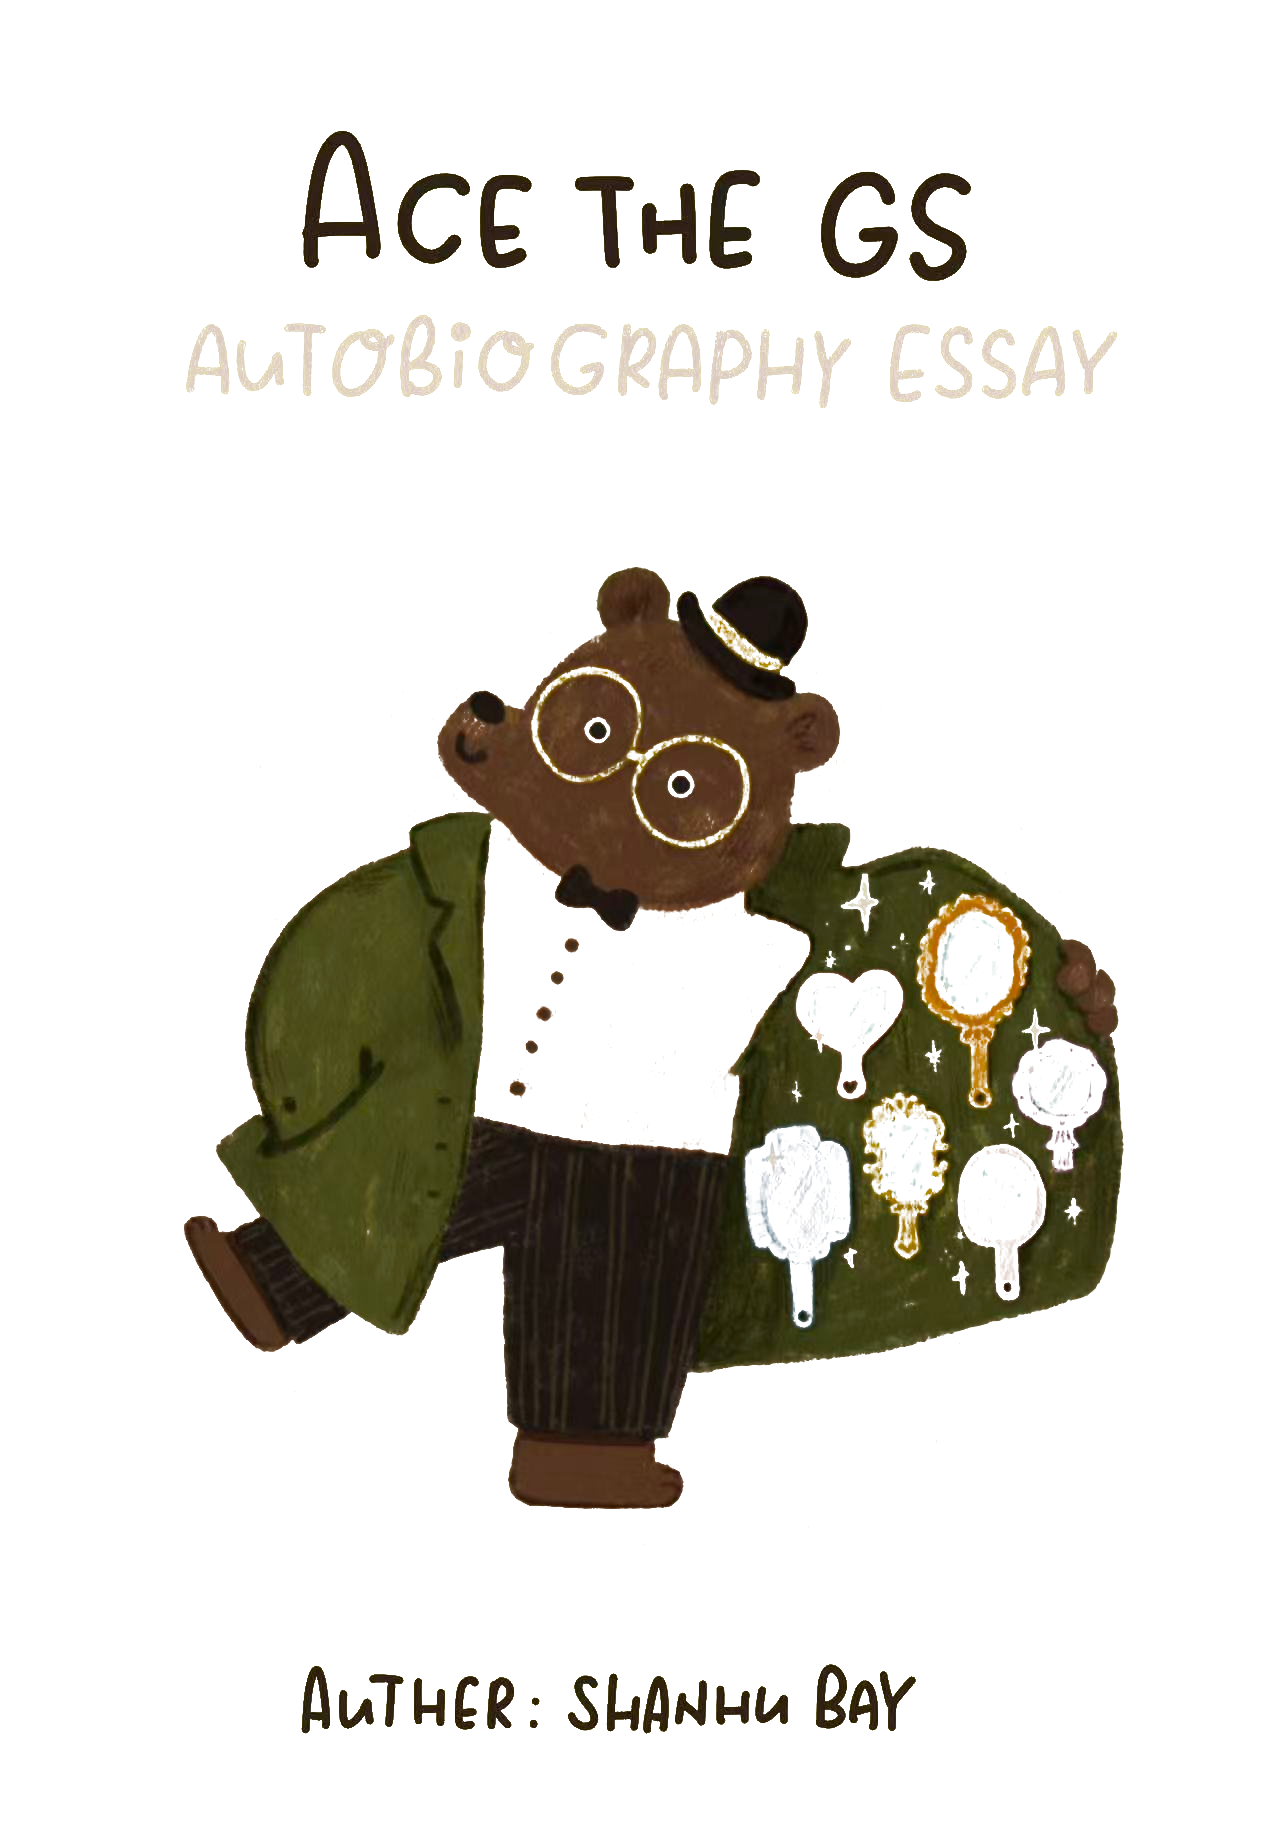
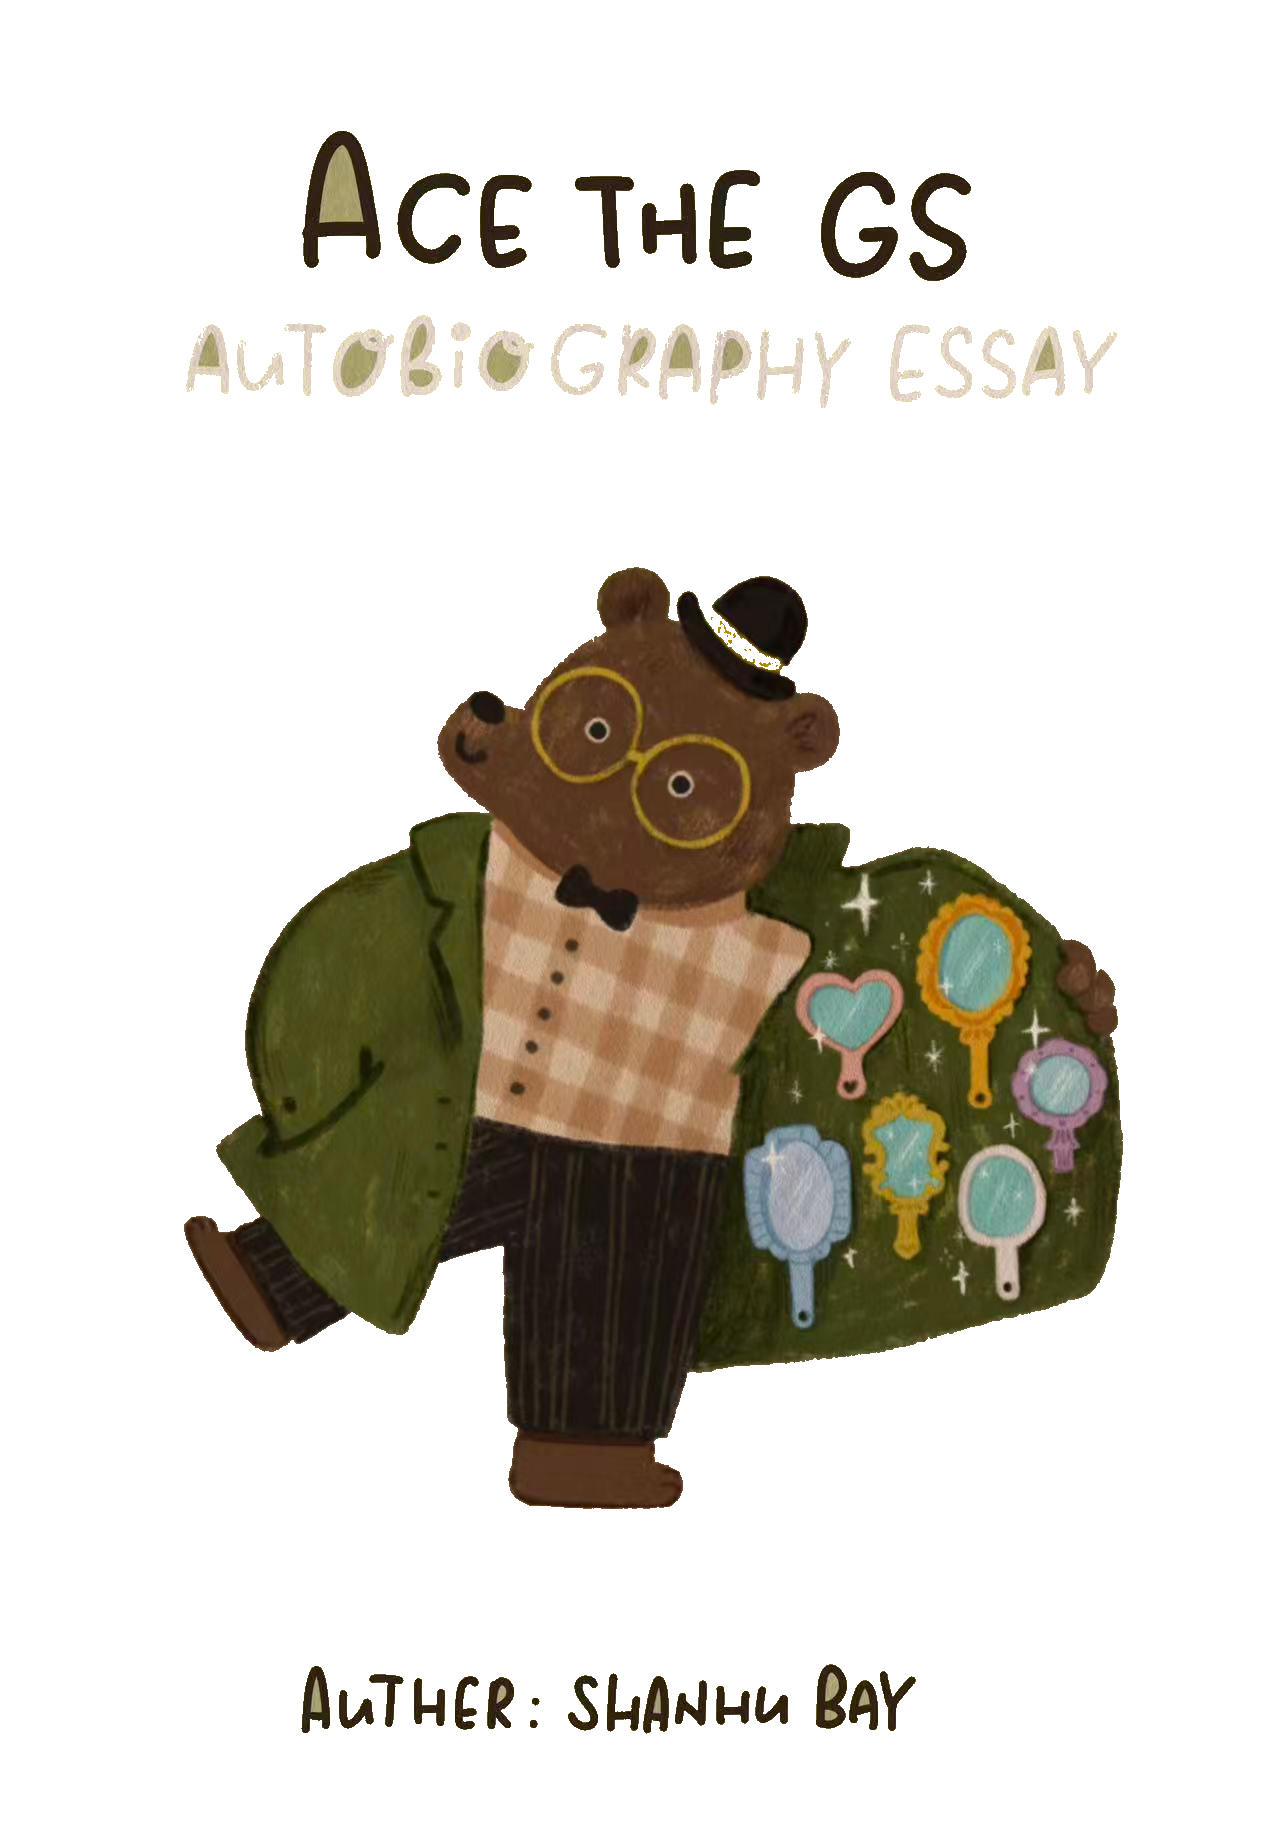
feat(ui): add cover mode switching functionality
- Added dynamic cover display with original/cutout modes
- Implemented query parameter based mode switching
- Enhanced user experience with toggle buttons
- Maintained backward compatibility

diff --git a/apps/web/src/app/page.tsx b/apps/web/src/app/page.tsx
@@ -4,7 +4,14 @@ import { membershipPlans } from "@soji/domain";
 import { PlanCard } from "@/components/plan-card";
 import { SectionShell } from "@/components/section-shell";
 
-export default function HomePage() {
+export default async function HomePage({
+  searchParams
+}: {
+  searchParams: Promise<{ cover?: string }>;
+}) {
+  const params = await searchParams;
+  const coverMode = params.cover === "cutout" ? "cutout" : "original";
+
   return (
     <main>
       <section className="mx-auto max-w-6xl px-6 pb-16 pt-12">
@@ -22,18 +29,60 @@ export default function HomePage() {
         <div className="mt-16 grid gap-12 lg:grid-cols-2 lg:items-start">
           <div className="mx-auto w-full max-w-[340px] order-2 lg:order-1">
             <div className="relative">
-              <div className="absolute inset-8 rounded-[42px] bg-[radial-gradient(circle_at_center,rgba(214,224,154,0.94),rgba(186,209,120,0.56)_52%,transparent_80%)] blur-3xl" />
-              <div className="absolute inset-x-12 bottom-8 top-14 rounded-[48px] bg-[radial-gradient(circle_at_50%_35%,rgba(239,241,214,0.52),rgba(202,214,145,0.32)_54%,transparent_78%)]" />
+              {coverMode === "cutout" ? (
+                <>
+                  <div className="absolute inset-8 rounded-[42px] bg-[radial-gradient(circle_at_center,rgba(214,224,154,0.94),rgba(186,209,120,0.56)_52%,transparent_80%)] blur-3xl" />
+                  <div className="absolute inset-x-12 bottom-8 top-14 rounded-[48px] bg-[radial-gradient(circle_at_50%_35%,rgba(239,241,214,0.52),rgba(202,214,145,0.32)_54%,transparent_78%)]" />
+                </>
+              ) : null}
               <div className="relative px-1 py-1">
-                <div className="relative aspect-[0.7] overflow-hidden">
-                  <Image
-                    src="/well-endowed-cutout.png"
-                    alt="Well Endowed cover artwork"
-                    fill
-                    priority
-                    className="object-contain object-center drop-shadow-[18px_20px_0_rgba(17,17,17,0.12)]"
-                  />
+                <div
+                  className={
+                    coverMode === "cutout"
+                      ? "relative aspect-[0.7] overflow-hidden"
+                      : "relative aspect-[0.7] overflow-hidden rounded-[12px] border border-black/15 bg-[#f4eee3] p-4 shadow-[16px_16px_0_rgba(17,17,17,0.12)]"
+                  }
+                >
+                  <div className={coverMode === "cutout" ? "relative h-full w-full" : "relative h-full w-full overflow-hidden rounded-[6px]"}>
+                    <Image
+                      src={
+                        coverMode === "cutout"
+                          ? "/well-endowed-cutout.png"
+                          : "/Image_2026-03-14_185549_786.jpg"
+                      }
+                      alt="Well Endowed cover artwork"
+                      fill
+                      priority
+                      className={
+                        coverMode === "cutout"
+                          ? "object-contain object-center"
+                          : "object-cover object-center"
+                      }
+                    />
+                  </div>
                 </div>
+              </div>
+              <div className="mt-4 flex justify-center gap-3 text-xs font-bold uppercase tracking-[0.18em] text-darktext/70">
+                <Link
+                  href="/"
+                  className={
+                    coverMode === "original"
+                      ? "rounded-full bg-black px-4 py-2 text-white"
+                      : "rounded-full border border-black/20 px-4 py-2"
+                  }
+                >
+                  Original cover
+                </Link>
+                <Link
+                  href="/?cover=cutout"
+                  className={
+                    coverMode === "cutout"
+                      ? "rounded-full bg-black px-4 py-2 text-white"
+                      : "rounded-full border border-black/20 px-4 py-2"
+                  }
+                >
+                  Cutout blend
+                </Link>
               </div>
             </div>
           </div>
